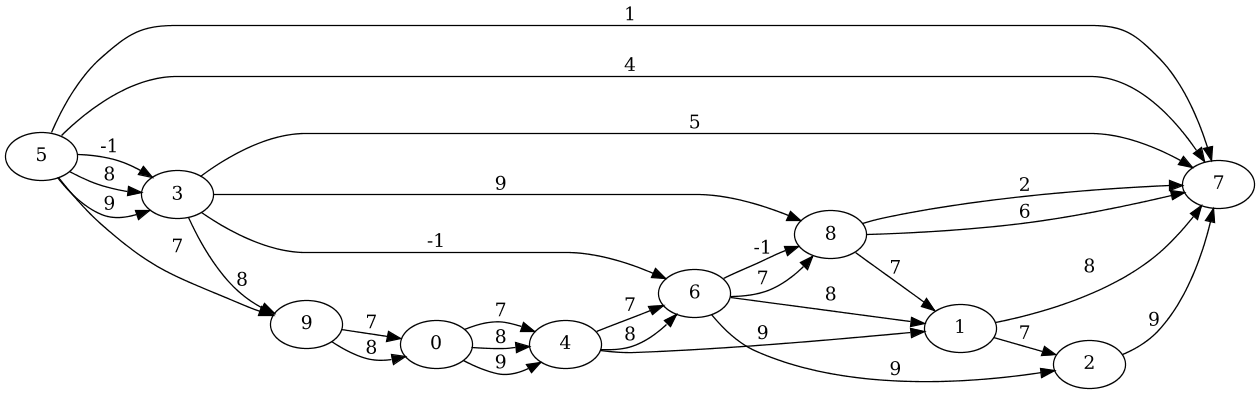
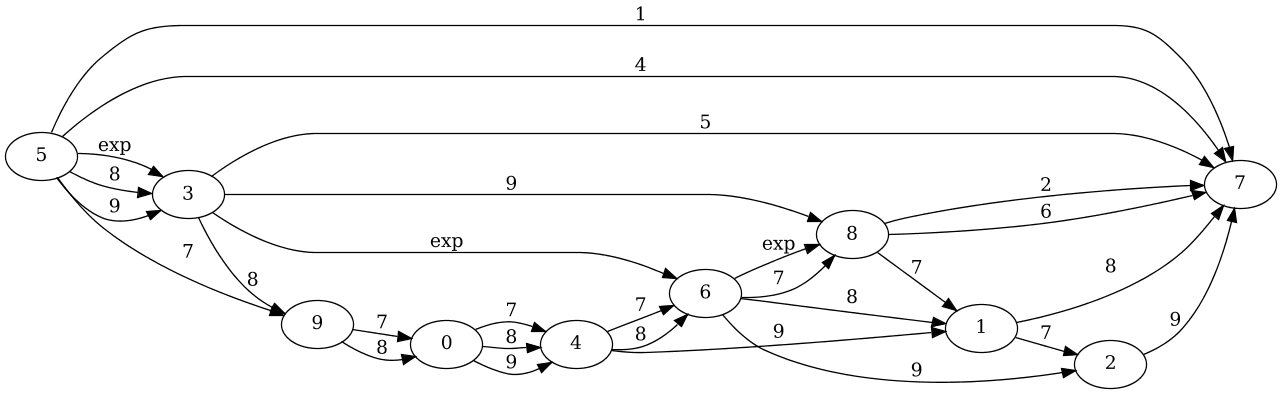
Replaces `-1` with `exp` label on edges

diff --git a/src/main/kotlin/credibilitygraphs/model/Know.kt b/src/main/kotlin/credibilitygraphs/model/Know.kt
@@ -5,7 +5,7 @@ import credibilitygraphs.core.CredibilityGraph
 import credibilitygraphs.core.CredibilityObject
 import guru.nidi.graphviz.engine.Format
 
-const val EXP = -1
+const val EXP = "exp"
 
 class Know : TrustModel<Double> {
     // cumulative interaction outcomes
@@ -40,7 +40,7 @@ class Know : TrustModel<Double> {
         val (_, experienceKB) = sortedExperiences.fold(
                 Pair(-1, CredibilityGraph()), { (prev, currentGraph), (current, _) ->
             if (prev != -1) {
-                val co = CredibilityObject(prev.toString(), current.toString(), EXP.toString())
+                val co = CredibilityObject(prev.toString(), current.toString(), EXP)
                 currentGraph.expansion(co)
             }
             Pair(current, currentGraph)
@@ -50,12 +50,12 @@ class Know : TrustModel<Double> {
 
         // debugging
         val experiencePrint = kb.copy()
-        experiencePrint.graph.removeVertex(EXP.toString())
+        experiencePrint.graph.removeVertex(EXP)
         experiencePrint.exportDOT("./tick-${time}-Experiences", Format.PNG)
 
         for (agent in agents) {
             // experiences are more a reliable source than this agent
-            kb.expansion(CredibilityObject(agent.toString(), EXP.toString(), EXP.toString()))
+            kb.expansion(CredibilityObject(agent.toString(), EXP, EXP))
 
             // all opinions from given agent, sorted by internal trust degrees
             val relevant = opinions.asSequence()
@@ -76,7 +76,7 @@ class Know : TrustModel<Double> {
 
             // only for debugging
             val opinionPrint = opinionKB.copy()
-            opinionPrint.graph.removeVertex(EXP.toString())
+            opinionPrint.graph.removeVertex(EXP)
             opinionPrint.exportDOT("./tick-${time}-Opinions-$agent", Format.PNG)
 
             // merge current KB with the KB from this agent
@@ -91,8 +91,8 @@ class Know : TrustModel<Double> {
 
     override fun getTrust(service: Int): Map<Int, Double> {
         // remove EXP vertex
-        kb.graph.removeVertex(EXP.toString())
-        kb.exportDOT("./tick-${time}-Trust", Format.PNG)
+        kb.graph.removeVertex(EXP)
+        kb.exportDOT("./tick-$time-Trust", Format.PNG)
 
         return mapOf()
     }
